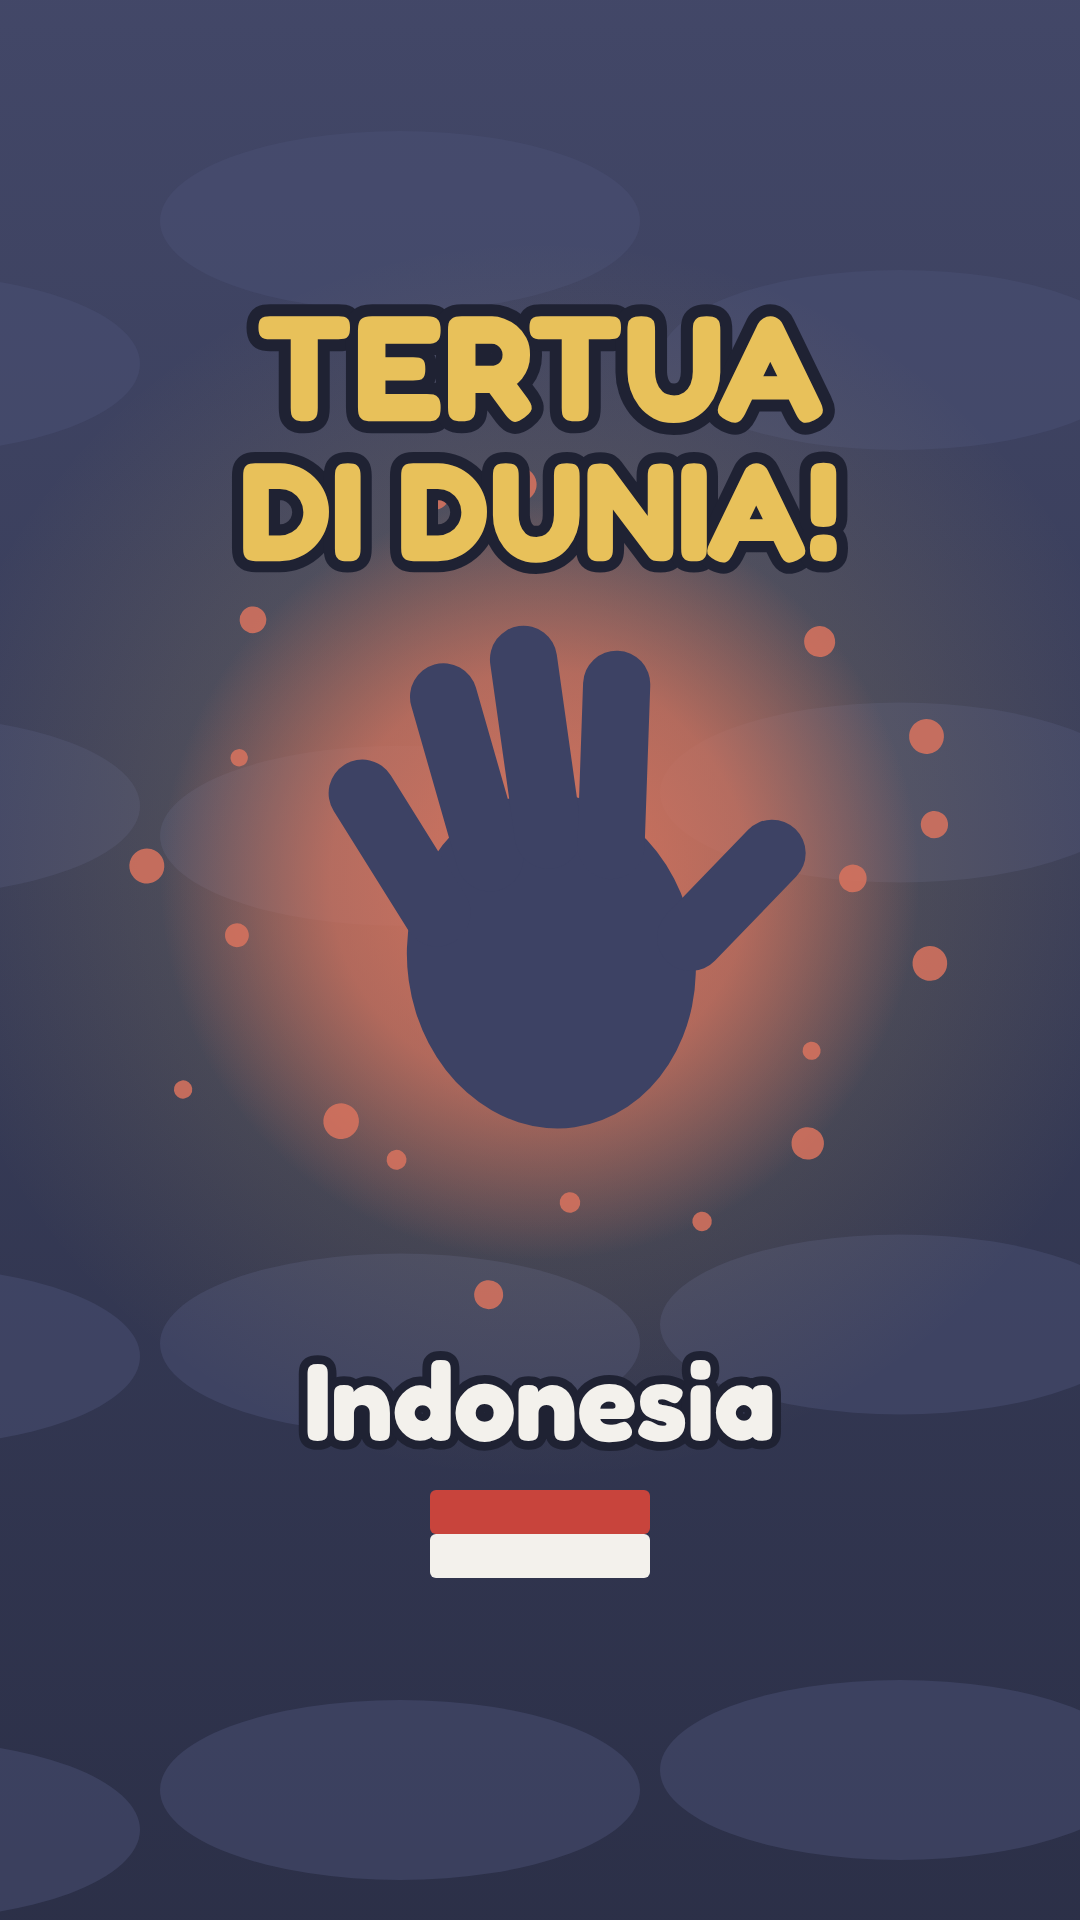
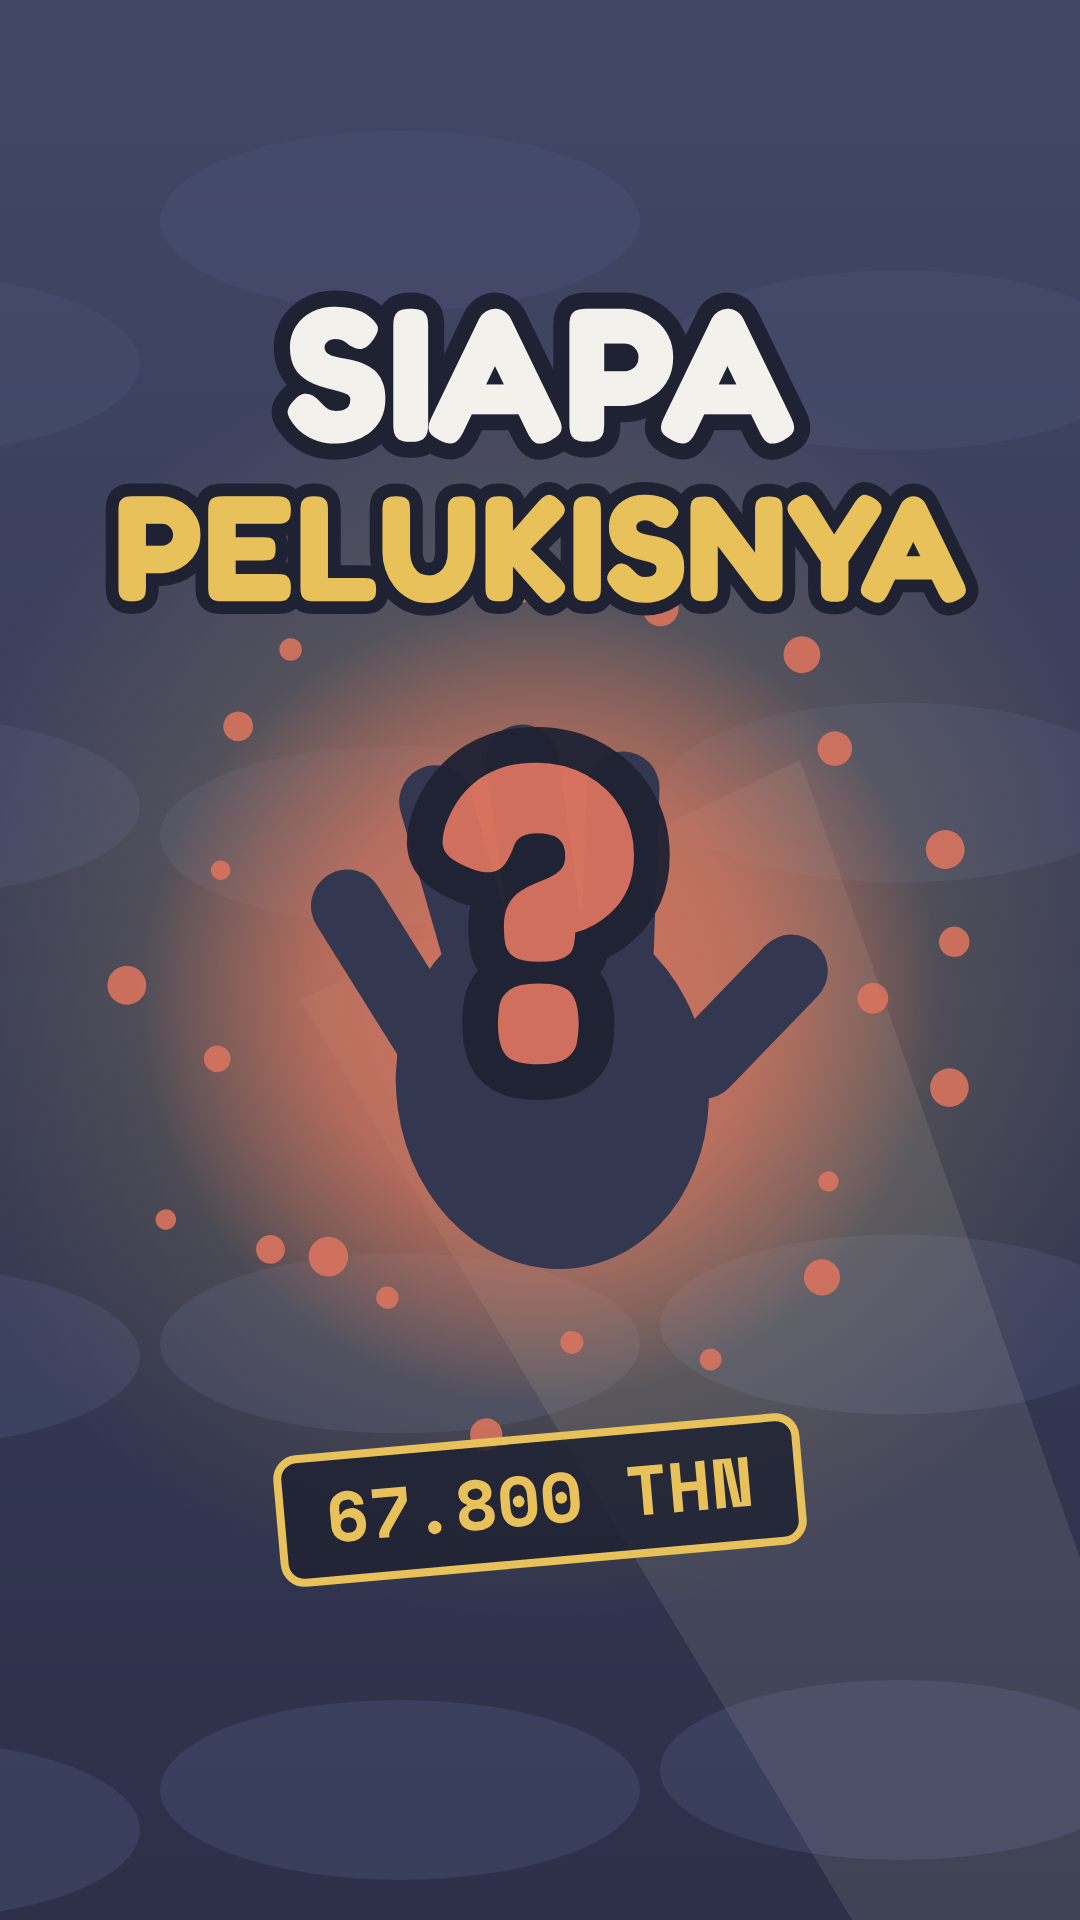
perjalanan-manusia: thumbnail baru bergaya pertanyaan (SIAPA PELUKISNYA?)
Claude-Session: https://claude.ai/code/session_01QhKcDzNPLSSDzeFLxwQag4

diff --git a/perjalanan-manusia/thumbnail/thumbnail-long.html b/perjalanan-manusia/thumbnail/thumbnail-long.html
@@ -141,21 +141,21 @@ window.VODATA={
 ]
 },
 "b1-3": {
-"dur": 8.594,
+"dur": 8.046,
 "cap": [
 [
 0,
-1.72,
+1.71,
 "Ayo, naik mesin waktu!"
 ],
 [
-1.72,
-6.44,
-"Kita akan menempuh perjalanan 300.000 tahun hanya dalam 15 menit."
+1.71,
+6.09,
+"Kita akan menempuh perjalanan 300.000 tahun hanya dalam 11 menit."
 ],
 [
-6.44,
-8.42,
+6.09,
+8.3,
 "Siap? Kita berangkat!"
 ]
 ]
@@ -1168,7 +1168,7 @@ function makeCapsule(p,x,ground){const k={};const place=G({transform:`translate(
   R(30,-300,140,230,C.blue2,26,bodyEl);k.door=R(30,-300,140,230,C.blue,26,bodyEl);CI(150,-190,9,C.sun,bodyEl);
   R(-262,-336,268,156,C.ink,22,bodyEl);R(-252,-326,248,136,'#1A2030',16,bodyEl);
   k.num=TX(-128,-268,'2026',42,C.mint,bodyEl,{'font-family':'Space Mono, monospace','font-weight':700,'font-variant-numeric':'tabular-nums'});
-  k.sub=TX(-128,-218,'15 MENIT',32,C.sun,bodyEl,{'font-family':'Space Mono, monospace','font-weight':700,opacity:0});
+  k.sub=TX(-128,-218,'11 MENIT',32,C.sun,bodyEl,{'font-family':'Space Mono, monospace','font-weight':700,opacity:0});
   k.lights=[];for(let i=0;i<7;i++){const a=Math.PI*(.12+i*.127);k.lights.push(CI(Math.cos(a)*-232,-330+Math.sin(a)*-260+520*0,11,i%2?C.sun:C.mint,bodyEl));}
   k.lights.forEach((l,i)=>{const a=Math.PI*(1.08+i*.14);l.setAttribute('cx',Math.cos(a)*236);l.setAttribute('cy',-330+Math.sin(a)*270);});
   k.place=place;return k;}
@@ -1247,15 +1247,24 @@ function bumper(year,label){const sc=scene('terowongan');const p=sc.g;R(-900,-90
   sfx('dial',.15,.4);sfx('luncur',2.55,.45);return sc;}
 function capStart(){/* cadangan */}
 
-const P=scene('thumb');{const p=P.g;R(-200,-200,2400,1500,'url(#caveG)',0,p);for(let i=0;i<9;i++)EL(-100+i*260,120+rnd(i)*700,200,80,'#4A5074',p,{opacity:.5});
-  for(let i=0;i<8;i++){const x=-60+i*280;PA(`M ${x-70} -200 L ${x+70} -200 L ${x} ${60+rnd(i)*140} Z`,'#33374F',p);}
-  CI(640,520,560,'url(#fireGlow)',p,{opacity:.55});const hp=G({transform:'translate(620,470) rotate(-10)'},p);CI(0,0,330,'url(#spray)',hp);handShape(hp,'#3D4264',2.2);
-  for(let i=0;i<20;i++){const a=i*2.4,r=260+rnd(i)*110;CI(Math.cos(a)*r,Math.sin(a)*r,7+rnd(i+5)*9,C.coral,hp,{opacity:.85});}
-  const k=character(p,1480,1240,1.55,NARA);k.root.y=0;rot(k.head,0,0,.01);k.mouth.setAttribute('d',MOUTH.kaget);k.Rarm.r=-25;k.Rarm.apply();k.Rfore.r=-100;k.Rfore.apply();
-  const ph=G({},k.Rhand.el);R(-26,-36,52,90,C.ink,10,ph);R(-20,-30,40,72,C.sky,6,ph);
-  const t=N('text',{x:90,y:930,'font-size':170,'font-weight':700,fill:C.sun,stroke:C.night,'stroke-width':26,'paint-order':'stroke','stroke-linejoin':'round','font-family':'Fredoka, sans-serif'},p);t.textContent='68.000 TAHUN!';
-  const t2=N('text',{x:100,y:1060,'font-size':96,'font-weight':700,fill:C.paper,stroke:C.night,'stroke-width':20,'paint-order':'stroke','stroke-linejoin':'round','font-family':'Fredoka, sans-serif'},p);t2.textContent='di Indonesia';}
+/* Thumbnail long: tanda tanya besar — siapa yang melukis cap tangan ini? */
+const P=scene('thumb');{const p=P.g;R(-200,-200,2400,1500,'url(#caveG)',0,p);for(let i=0;i<9;i++)EL(-100+i*260,120+rnd(i)*800,200,80,'#4A5074',p,{opacity:.45});
+  for(let i=0;i<8;i++){const x=-60+i*280;PA(`M ${x-70} -200 L ${x+70} -200 L ${x} ${40+rnd(i)*120} Z`,'#2A2E44',p);}
+  /* sinar senter dari kanan ke cap tangan */
+  PA('M 2100 1200 L 1700 1300 L 380 700 L 760 260 Z','#F4ECCF',p,{opacity:.10});CI(620,560,520,'url(#fireGlow)',p,{opacity:.7});
+  const hp=G({transform:'translate(560,700) rotate(-12)'},p);CI(0,0,330,'url(#spray)',hp);handShape(hp,'#33374F',2.2);
+  for(let i=0;i<24;i++){const a=i*2.4,r=280+rnd(i)*120;CI(Math.cos(a)*r,Math.sin(a)*r,8+rnd(i+5)*10,C.coral,hp,{opacity:.9});}
+  /* Nara terkejut menunjuk */
+  const k=character(p,1500,1330,1.75,NARA);k.mouth.setAttribute('d','M -18 -60 C -20 -20 20 -20 18 -60 C 16 -76 -16 -76 -18 -60 Z');k.mouth.setAttribute('fill',C.night);k.eyes.sx=1.35;k.eyes.sy=1.35;k.eyes.apply();k.head.r=-8;k.head.apply();
+  k.Larm.r=105;k.Larm.apply();k.Lfore.r=-8;k.Lfore.apply();k.Rarm.r=-150;k.Rarm.apply();k.Rfore.r=-30;k.Rfore.apply();
+  const sw=G({},k.head.el);LN('M -52 -118 C -40 -134 -22 -134 -12 -124',C.ink,7,sw);LN('M 12 -124 C 22 -134 40 -134 52 -118',C.ink,7,sw);R(-60,-112,120,10,C.skinKid,0,sw);PA('M 70 -150 C 60 -130 64 -112 78 -112 C 92 -112 94 -130 70 -150 Z',C.sky,sw);
+  /* teks pertanyaan */
+  const tx=(x,y,s,txt,f,a={})=>{const t=N('text',{x,y,'font-size':s,'font-weight':700,fill:f,stroke:C.night,'stroke-width':s*.17,'paint-order':'stroke','stroke-linejoin':'round','font-family':'Fredoka, sans-serif',...a},p);t.textContent=txt;return t;};
+  tx(70,205,170,'SIAPA',C.paper);tx(70,370,170,'PELUKISNYA',C.sun);
+  tx(1130,330,330,'?',C.coral,{transform:'rotate(10 1200 230)'});
+  /* petunjuk kecil, jawabannya disembunyikan */
+  const st=G({transform:'translate(420,1000) rotate(-6)'},p);R(-250,-62,500,124,C.night,20,st,{opacity:.85});R(-250,-62,500,124,'none',20,st,{stroke:C.sun,'stroke-width':8});
+  N('text',{x:0,y:24,'font-size':70,'font-weight':700,fill:C.sun,'text-anchor':'middle','font-family':'Space Mono, monospace'},st).textContent='67.800 THN';}
 P.g.style.display='block';Object.assign(P.cam,{x:960,y:540,z:1});P.apply();DUR=1;
 
-function fit(){}
 </script></body></html>

diff --git a/perjalanan-manusia/thumbnail/thumbnail-short.html b/perjalanan-manusia/thumbnail/thumbnail-short.html
@@ -141,21 +141,21 @@ window.VODATA={
 ]
 },
 "b1-3": {
-"dur": 8.594,
+"dur": 8.046,
 "cap": [
 [
 0,
-1.72,
+1.71,
 "Ayo, naik mesin waktu!"
 ],
 [
-1.72,
-6.44,
-"Kita akan menempuh perjalanan 300.000 tahun hanya dalam 15 menit."
+1.71,
+6.09,
+"Kita akan menempuh perjalanan 300.000 tahun hanya dalam 11 menit."
 ],
 [
-6.44,
-8.42,
+6.09,
+8.3,
 "Siap? Kita berangkat!"
 ]
 ]
@@ -1168,7 +1168,7 @@ function makeCapsule(p,x,ground){const k={};const place=G({transform:`translate(
   R(30,-300,140,230,C.blue2,26,bodyEl);k.door=R(30,-300,140,230,C.blue,26,bodyEl);CI(150,-190,9,C.sun,bodyEl);
   R(-262,-336,268,156,C.ink,22,bodyEl);R(-252,-326,248,136,'#1A2030',16,bodyEl);
   k.num=TX(-128,-268,'2026',42,C.mint,bodyEl,{'font-family':'Space Mono, monospace','font-weight':700,'font-variant-numeric':'tabular-nums'});
-  k.sub=TX(-128,-218,'15 MENIT',32,C.sun,bodyEl,{'font-family':'Space Mono, monospace','font-weight':700,opacity:0});
+  k.sub=TX(-128,-218,'11 MENIT',32,C.sun,bodyEl,{'font-family':'Space Mono, monospace','font-weight':700,opacity:0});
   k.lights=[];for(let i=0;i<7;i++){const a=Math.PI*(.12+i*.127);k.lights.push(CI(Math.cos(a)*-232,-330+Math.sin(a)*-260+520*0,11,i%2?C.sun:C.mint,bodyEl));}
   k.lights.forEach((l,i)=>{const a=Math.PI*(1.08+i*.14);l.setAttribute('cx',Math.cos(a)*236);l.setAttribute('cy',-330+Math.sin(a)*270);});
   k.place=place;return k;}
@@ -1247,13 +1247,15 @@ function bumper(year,label){const sc=scene('terowongan');const p=sc.g;R(-900,-90
   sfx('dial',.15,.4);sfx('luncur',2.55,.45);return sc;}
 function capStart(){/* cadangan */}
 
-const P=scene('thumb');{const p=P.g;R(-400,-400,1900,2800,'url(#caveG)',0,p);for(let i=0;i<12;i++)EL(-100+(i%3)*500,200+Math.floor(i/3)*480+rnd(i)*200,240,90,'#4A5074',p,{opacity:.5});
-  CI(540,860,620,'url(#fireGlow)',p,{opacity:.5});const hp=G({transform:'translate(540,880) rotate(-8)'},p);CI(0,0,380,'url(#spray)',hp);handShape(hp,'#3D4264',2.4);
-  for(let i=0;i<22;i++){const a=i*2.4,r=300+rnd(i)*120;CI(Math.cos(a)*r,Math.sin(a)*r,8+rnd(i+5)*10,C.coral,hp,{opacity:.85});}
-  const mk=(y,s,txt,f)=>{const t=N('text',{x:540,y,'font-size':s,'font-weight':700,fill:f,stroke:C.night,'stroke-width':s*.16,'paint-order':'stroke','stroke-linejoin':'round','text-anchor':'middle','font-family':'Fredoka, sans-serif'},p);t.textContent=txt;};
-  mk(420,150,'TERTUA',C.sun);mk(560,140,'DI DUNIA!',C.sun);mk(1440,110,'Indonesia',C.paper);
-  R(430,1490,220,44,C.red,6,p);R(430,1534,220,44,C.paper,6,p);}
+/* Thumbnail Short: SIAPA PELUKISNYA? */
+const P=scene('thumb');{const p=P.g;R(-400,-400,1900,2800,'url(#caveG)',0,p);for(let i=0;i<12;i++)EL(-100+(i%3)*500,200+Math.floor(i/3)*480+rnd(i)*200,240,90,'#4A5074',p,{opacity:.45});
+  PA('M 1200 1900 L 900 2000 L 300 1000 L 800 760 Z','#F4ECCF',p,{opacity:.10});CI(540,980,640,'url(#fireGlow)',p,{opacity:.65});
+  const hp=G({transform:'translate(540,1000) rotate(-8)'},p);CI(0,0,400,'url(#spray)',hp);handShape(hp,'#33374F',2.6);
+  for(let i=0;i<24;i++){const a=i*2.4,r=320+rnd(i)*120;CI(Math.cos(a)*r,Math.sin(a)*r,9+rnd(i+5)*11,C.coral,hp,{opacity:.9});}
+  const tx=(y,s,txt,f,a={})=>{const t=N('text',{x:540,y,'font-size':s,'font-weight':700,fill:f,stroke:C.night,'stroke-width':s*.17,'paint-order':'stroke','stroke-linejoin':'round','text-anchor':'middle','font-family':'Fredoka, sans-serif',...a},p);t.textContent=txt;return t;};
+  tx(440,190,'SIAPA',C.paper);tx(600,150,'PELUKISNYA',C.sun);tx(1060,420,'?',C.coral,{opacity:.95});
+  const st=G({transform:'translate(540,1500) rotate(-5)'},p);R(-260,-62,520,124,C.night,20,st,{opacity:.85});R(-260,-62,520,124,'none',20,st,{stroke:C.sun,'stroke-width':8});
+  N('text',{x:0,y:24,'font-size':70,'font-weight':700,fill:C.sun,'text-anchor':'middle','font-family':'Space Mono, monospace'},st).textContent='67.800 THN';}
 P.g.style.display='block';Object.assign(P.cam,{x:540,y:960,z:1});P.apply();DUR=1;
 
-function fit(){}
 </script></body></html>

diff --git a/perjalanan-manusia/thumbnail/long.js b/perjalanan-manusia/thumbnail/long.js
@@ -1,9 +1,19 @@
-const P=scene('thumb');{const p=P.g;R(-200,-200,2400,1500,'url(#caveG)',0,p);for(let i=0;i<9;i++)EL(-100+i*260,120+rnd(i)*700,200,80,'#4A5074',p,{opacity:.5});
-  for(let i=0;i<8;i++){const x=-60+i*280;PA(`M ${x-70} -200 L ${x+70} -200 L ${x} ${60+rnd(i)*140} Z`,'#33374F',p);}
-  CI(640,520,560,'url(#fireGlow)',p,{opacity:.55});const hp=G({transform:'translate(620,470) rotate(-10)'},p);CI(0,0,330,'url(#spray)',hp);handShape(hp,'#3D4264',2.2);
-  for(let i=0;i<20;i++){const a=i*2.4,r=260+rnd(i)*110;CI(Math.cos(a)*r,Math.sin(a)*r,7+rnd(i+5)*9,C.coral,hp,{opacity:.85});}
-  const k=character(p,1480,1240,1.55,NARA);k.root.y=0;rot(k.head,0,0,.01);k.mouth.setAttribute('d',MOUTH.kaget);k.Rarm.r=-25;k.Rarm.apply();k.Rfore.r=-100;k.Rfore.apply();
-  const ph=G({},k.Rhand.el);R(-26,-36,52,90,C.ink,10,ph);R(-20,-30,40,72,C.sky,6,ph);
-  const t=N('text',{x:90,y:930,'font-size':170,'font-weight':700,fill:C.sun,stroke:C.night,'stroke-width':26,'paint-order':'stroke','stroke-linejoin':'round','font-family':'Fredoka, sans-serif'},p);t.textContent='68.000 TAHUN!';
-  const t2=N('text',{x:100,y:1060,'font-size':96,'font-weight':700,fill:C.paper,stroke:C.night,'stroke-width':20,'paint-order':'stroke','stroke-linejoin':'round','font-family':'Fredoka, sans-serif'},p);t2.textContent='di Indonesia';}
+/* Thumbnail long: tanda tanya besar — siapa yang melukis cap tangan ini? */
+const P=scene('thumb');{const p=P.g;R(-200,-200,2400,1500,'url(#caveG)',0,p);for(let i=0;i<9;i++)EL(-100+i*260,120+rnd(i)*800,200,80,'#4A5074',p,{opacity:.45});
+  for(let i=0;i<8;i++){const x=-60+i*280;PA(`M ${x-70} -200 L ${x+70} -200 L ${x} ${40+rnd(i)*120} Z`,'#2A2E44',p);}
+  /* sinar senter dari kanan ke cap tangan */
+  PA('M 2100 1200 L 1700 1300 L 380 700 L 760 260 Z','#F4ECCF',p,{opacity:.10});CI(620,560,520,'url(#fireGlow)',p,{opacity:.7});
+  const hp=G({transform:'translate(560,700) rotate(-12)'},p);CI(0,0,330,'url(#spray)',hp);handShape(hp,'#33374F',2.2);
+  for(let i=0;i<24;i++){const a=i*2.4,r=280+rnd(i)*120;CI(Math.cos(a)*r,Math.sin(a)*r,8+rnd(i+5)*10,C.coral,hp,{opacity:.9});}
+  /* Nara terkejut menunjuk */
+  const k=character(p,1500,1330,1.75,NARA);k.mouth.setAttribute('d','M -18 -60 C -20 -20 20 -20 18 -60 C 16 -76 -16 -76 -18 -60 Z');k.mouth.setAttribute('fill',C.night);k.eyes.sx=1.35;k.eyes.sy=1.35;k.eyes.apply();k.head.r=-8;k.head.apply();
+  k.Larm.r=105;k.Larm.apply();k.Lfore.r=-8;k.Lfore.apply();k.Rarm.r=-150;k.Rarm.apply();k.Rfore.r=-30;k.Rfore.apply();
+  const sw=G({},k.head.el);LN('M -52 -118 C -40 -134 -22 -134 -12 -124',C.ink,7,sw);LN('M 12 -124 C 22 -134 40 -134 52 -118',C.ink,7,sw);R(-60,-112,120,10,C.skinKid,0,sw);PA('M 70 -150 C 60 -130 64 -112 78 -112 C 92 -112 94 -130 70 -150 Z',C.sky,sw);
+  /* teks pertanyaan */
+  const tx=(x,y,s,txt,f,a={})=>{const t=N('text',{x,y,'font-size':s,'font-weight':700,fill:f,stroke:C.night,'stroke-width':s*.17,'paint-order':'stroke','stroke-linejoin':'round','font-family':'Fredoka, sans-serif',...a},p);t.textContent=txt;return t;};
+  tx(70,205,170,'SIAPA',C.paper);tx(70,370,170,'PELUKISNYA',C.sun);
+  tx(1130,330,330,'?',C.coral,{transform:'rotate(10 1200 230)'});
+  /* petunjuk kecil, jawabannya disembunyikan */
+  const st=G({transform:'translate(420,1000) rotate(-6)'},p);R(-250,-62,500,124,C.night,20,st,{opacity:.85});R(-250,-62,500,124,'none',20,st,{stroke:C.sun,'stroke-width':8});
+  N('text',{x:0,y:24,'font-size':70,'font-weight':700,fill:C.sun,'text-anchor':'middle','font-family':'Space Mono, monospace'},st).textContent='67.800 THN';}
 P.g.style.display='block';Object.assign(P.cam,{x:960,y:540,z:1});P.apply();DUR=1;

diff --git a/perjalanan-manusia/thumbnail/short.js b/perjalanan-manusia/thumbnail/short.js
@@ -1,7 +1,10 @@
-const P=scene('thumb');{const p=P.g;R(-400,-400,1900,2800,'url(#caveG)',0,p);for(let i=0;i<12;i++)EL(-100+(i%3)*500,200+Math.floor(i/3)*480+rnd(i)*200,240,90,'#4A5074',p,{opacity:.5});
-  CI(540,860,620,'url(#fireGlow)',p,{opacity:.5});const hp=G({transform:'translate(540,880) rotate(-8)'},p);CI(0,0,380,'url(#spray)',hp);handShape(hp,'#3D4264',2.4);
-  for(let i=0;i<22;i++){const a=i*2.4,r=300+rnd(i)*120;CI(Math.cos(a)*r,Math.sin(a)*r,8+rnd(i+5)*10,C.coral,hp,{opacity:.85});}
-  const mk=(y,s,txt,f)=>{const t=N('text',{x:540,y,'font-size':s,'font-weight':700,fill:f,stroke:C.night,'stroke-width':s*.16,'paint-order':'stroke','stroke-linejoin':'round','text-anchor':'middle','font-family':'Fredoka, sans-serif'},p);t.textContent=txt;};
-  mk(420,150,'TERTUA',C.sun);mk(560,140,'DI DUNIA!',C.sun);mk(1440,110,'Indonesia',C.paper);
-  R(430,1490,220,44,C.red,6,p);R(430,1534,220,44,C.paper,6,p);}
+/* Thumbnail Short: SIAPA PELUKISNYA? */
+const P=scene('thumb');{const p=P.g;R(-400,-400,1900,2800,'url(#caveG)',0,p);for(let i=0;i<12;i++)EL(-100+(i%3)*500,200+Math.floor(i/3)*480+rnd(i)*200,240,90,'#4A5074',p,{opacity:.45});
+  PA('M 1200 1900 L 900 2000 L 300 1000 L 800 760 Z','#F4ECCF',p,{opacity:.10});CI(540,980,640,'url(#fireGlow)',p,{opacity:.65});
+  const hp=G({transform:'translate(540,1000) rotate(-8)'},p);CI(0,0,400,'url(#spray)',hp);handShape(hp,'#33374F',2.6);
+  for(let i=0;i<24;i++){const a=i*2.4,r=320+rnd(i)*120;CI(Math.cos(a)*r,Math.sin(a)*r,9+rnd(i+5)*11,C.coral,hp,{opacity:.9});}
+  const tx=(y,s,txt,f,a={})=>{const t=N('text',{x:540,y,'font-size':s,'font-weight':700,fill:f,stroke:C.night,'stroke-width':s*.17,'paint-order':'stroke','stroke-linejoin':'round','text-anchor':'middle','font-family':'Fredoka, sans-serif',...a},p);t.textContent=txt;return t;};
+  tx(440,190,'SIAPA',C.paper);tx(600,150,'PELUKISNYA',C.sun);tx(1060,420,'?',C.coral,{opacity:.95});
+  const st=G({transform:'translate(540,1500) rotate(-5)'},p);R(-260,-62,520,124,C.night,20,st,{opacity:.85});R(-260,-62,520,124,'none',20,st,{stroke:C.sun,'stroke-width':8});
+  N('text',{x:0,y:24,'font-size':70,'font-weight':700,fill:C.sun,'text-anchor':'middle','font-family':'Space Mono, monospace'},st).textContent='67.800 THN';}
 P.g.style.display='block';Object.assign(P.cam,{x:540,y:960,z:1});P.apply();DUR=1;

diff --git a/perjalanan-manusia/naskah/thumb.py b/perjalanan-manusia/naskah/thumb.py
@@ -1,0 +1,11 @@
+"""Rakit thumbnail/<long|short>.js + lib → thumbnail/thumbnail-<nama>.html (dipotret oleh scripts/thumbnail.py)."""
+import pathlib
+R=pathlib.Path(__file__).resolve().parent.parent
+head=(R/'lib/_head.html').read_text();libs='\n'.join((R/'lib'/n).read_text() for n in ['captions.js','inti.js','benda.js'])
+for name,w in [('long',1280),('short',1080)]:
+    vw,vh=(1920,1080) if name=='long' else (1080,1920)
+    hh=head.replace('__TITLE__','Thumbnail '+name).replace('width:1920px;height:1080px',f'width:{vw}px;height:{vh}px').replace('width="1920" height="1080" viewBox="0 0 1920 1080"',f'width="{vw}" height="{vh}" viewBox="0 0 {vw} {vh}"')
+    hh=hh.replace('#stage{position:absolute;left:50%;top:50%;',f'#stage{{position:absolute;left:0;top:0;transform-origin:0 0 !important;transform:scale({w/vw}) !important;')
+    pre='' if name=='long' else '<script>window.STAGE={w:1080,h:1920};</script>'
+    (R/f'thumbnail/thumbnail-{name}.html').write_text(hh+pre+'<script>\n'+libs+'\n'+(R/f'thumbnail/{name}.js').read_text()+'\n</script></body></html>')
+print('ok')
